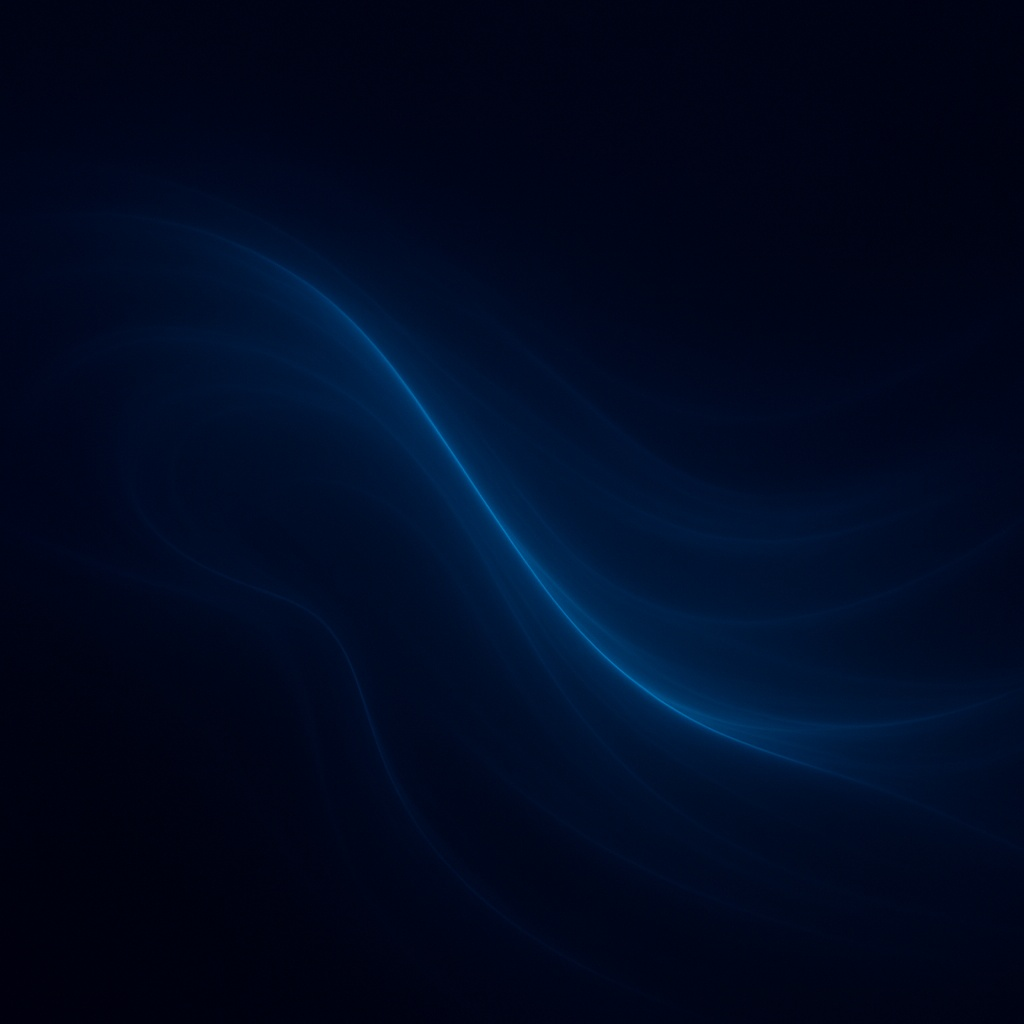
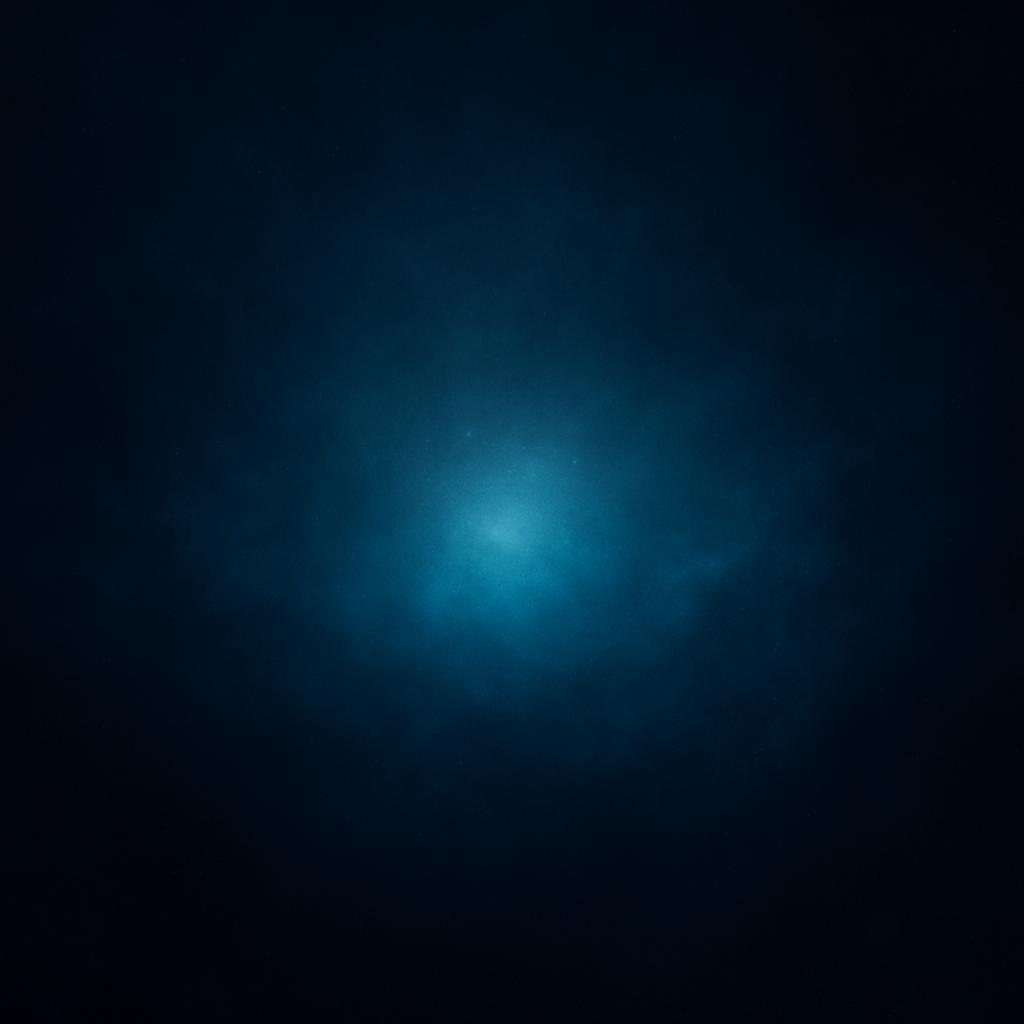
Replace hero ocean background with new deep blue ice-fog variant

Changed region(s): [[0.2188, 0.1875, 1.0, 0.8125]]

diff --git a/src/App.jsx b/src/App.jsx
@@ -1,5 +1,5 @@
 import React, { useState, useEffect } from "react";
-import aboutPhoto from "./assets/1000066333.jpg";
+import aboutPhoto from "./assets/1000066222.jpg";
 import brandLogo from "./assets/1000022667.jpg"; // твой логотип
 import digitalBloom from "./assets/1000055711.jpg";
 import img1000099277 from "./assets/1000011111.jpg";
